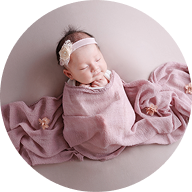
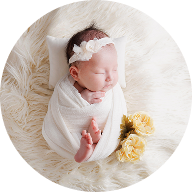
プラン説明文を更新し、Voice画像を差し替え

diff --git a/web/index.html b/web/index.html
@@ -160,7 +160,7 @@
                 <div class="plan-preview__card">
                     <div>
                         <h3 class="plan-preview__name">Mini Plan</h3>
-                        <p class="plan-preview__desc">赤ちゃんのソロショットのみを短時間で撮影</p>
+                        <p class="plan-preview__desc">赤ちゃんだけの撮影<br>コンパクトに特別な写真を残したい方</p>
                     </div>
                     <span class="plan-preview__badge">オープン記念10%OFF</span>
                     <div class="plan-preview__price">
@@ -174,7 +174,7 @@
                 <div class="plan-preview__card">
                     <div>
                         <h3 class="plan-preview__name">Basic Plan</h3>
-                        <p class="plan-preview__desc">家族写真もバランスよく撮影</p>
+                        <p class="plan-preview__desc">家族写真ご希望で<br>色々なパターンをバランス良く<br>撮影したい方</p>
                     </div>
                     <span class="plan-preview__badge">オープン記念10%OFF</span>
                     <div class="plan-preview__price">
@@ -198,13 +198,13 @@
             <div class="voice-preview__list">
                 <article class="voice-preview__card">
                     <div class="voice-preview__image">
-                        <img src="/assets/images/voice_1.png" alt="" width="64" height="64" loading="lazy">
+                        <img src="/assets/images/voice_3.png" alt="" width="64" height="64" loading="lazy">
                     </div>
                     <p class="voice-preview__text">自然であまり派手ではなくナチュラルな感じを探していたので、お写真の感じがすごく素敵でお願いさせていただきました。</p>
                 </article>
                 <article class="voice-preview__card">
                     <div class="voice-preview__image">
-                        <img src="/assets/images/voice_2.png" alt="" width="64" height="64" loading="lazy">
+                        <img src="/assets/images/voice_4.png" alt="" width="64" height="64" loading="lazy">
                     </div>
                     <p class="voice-preview__text">赤ちゃんの自然体な写真、今しかない貴重な姿を残すことができて、お願いをして本当に良かったです。</p>
                 </article>

diff --git a/web/plan/index.html b/web/plan/index.html
@@ -96,7 +96,7 @@
                 <!-- Mini Plan -->
                 <div class="plan-card">
                     <h2 class="plan-card__name">Mini Plan</h2>
-                    <p class="plan-card__desc">赤ちゃんのソロショットのみを短時間で撮影したい方はこちら</p>
+                    <p class="plan-card__desc">赤ちゃんだけの撮影<br>コンパクトに特別な写真を残したい方</p>
                     <div class="plan-card__image-wrapper">
                         <img class="plan-card__image"
                             src="/assets/images/plan_mini.webp"
@@ -135,7 +135,7 @@
                 <!-- Basic Plan -->
                 <div class="plan-card">
                     <h2 class="plan-card__name">Basic Plan</h2>
-                    <p class="plan-card__desc">家族写真ご希望で<br>バランスよく撮影したい方はこちら</p>
+                    <p class="plan-card__desc">家族写真ご希望で<br>色々なパターンをバランス良く<br>撮影したい方</p>
                     <div class="plan-card__image-wrapper">
                         <img class="plan-card__image"
                             src="/assets/images/plan_basic.webp"
